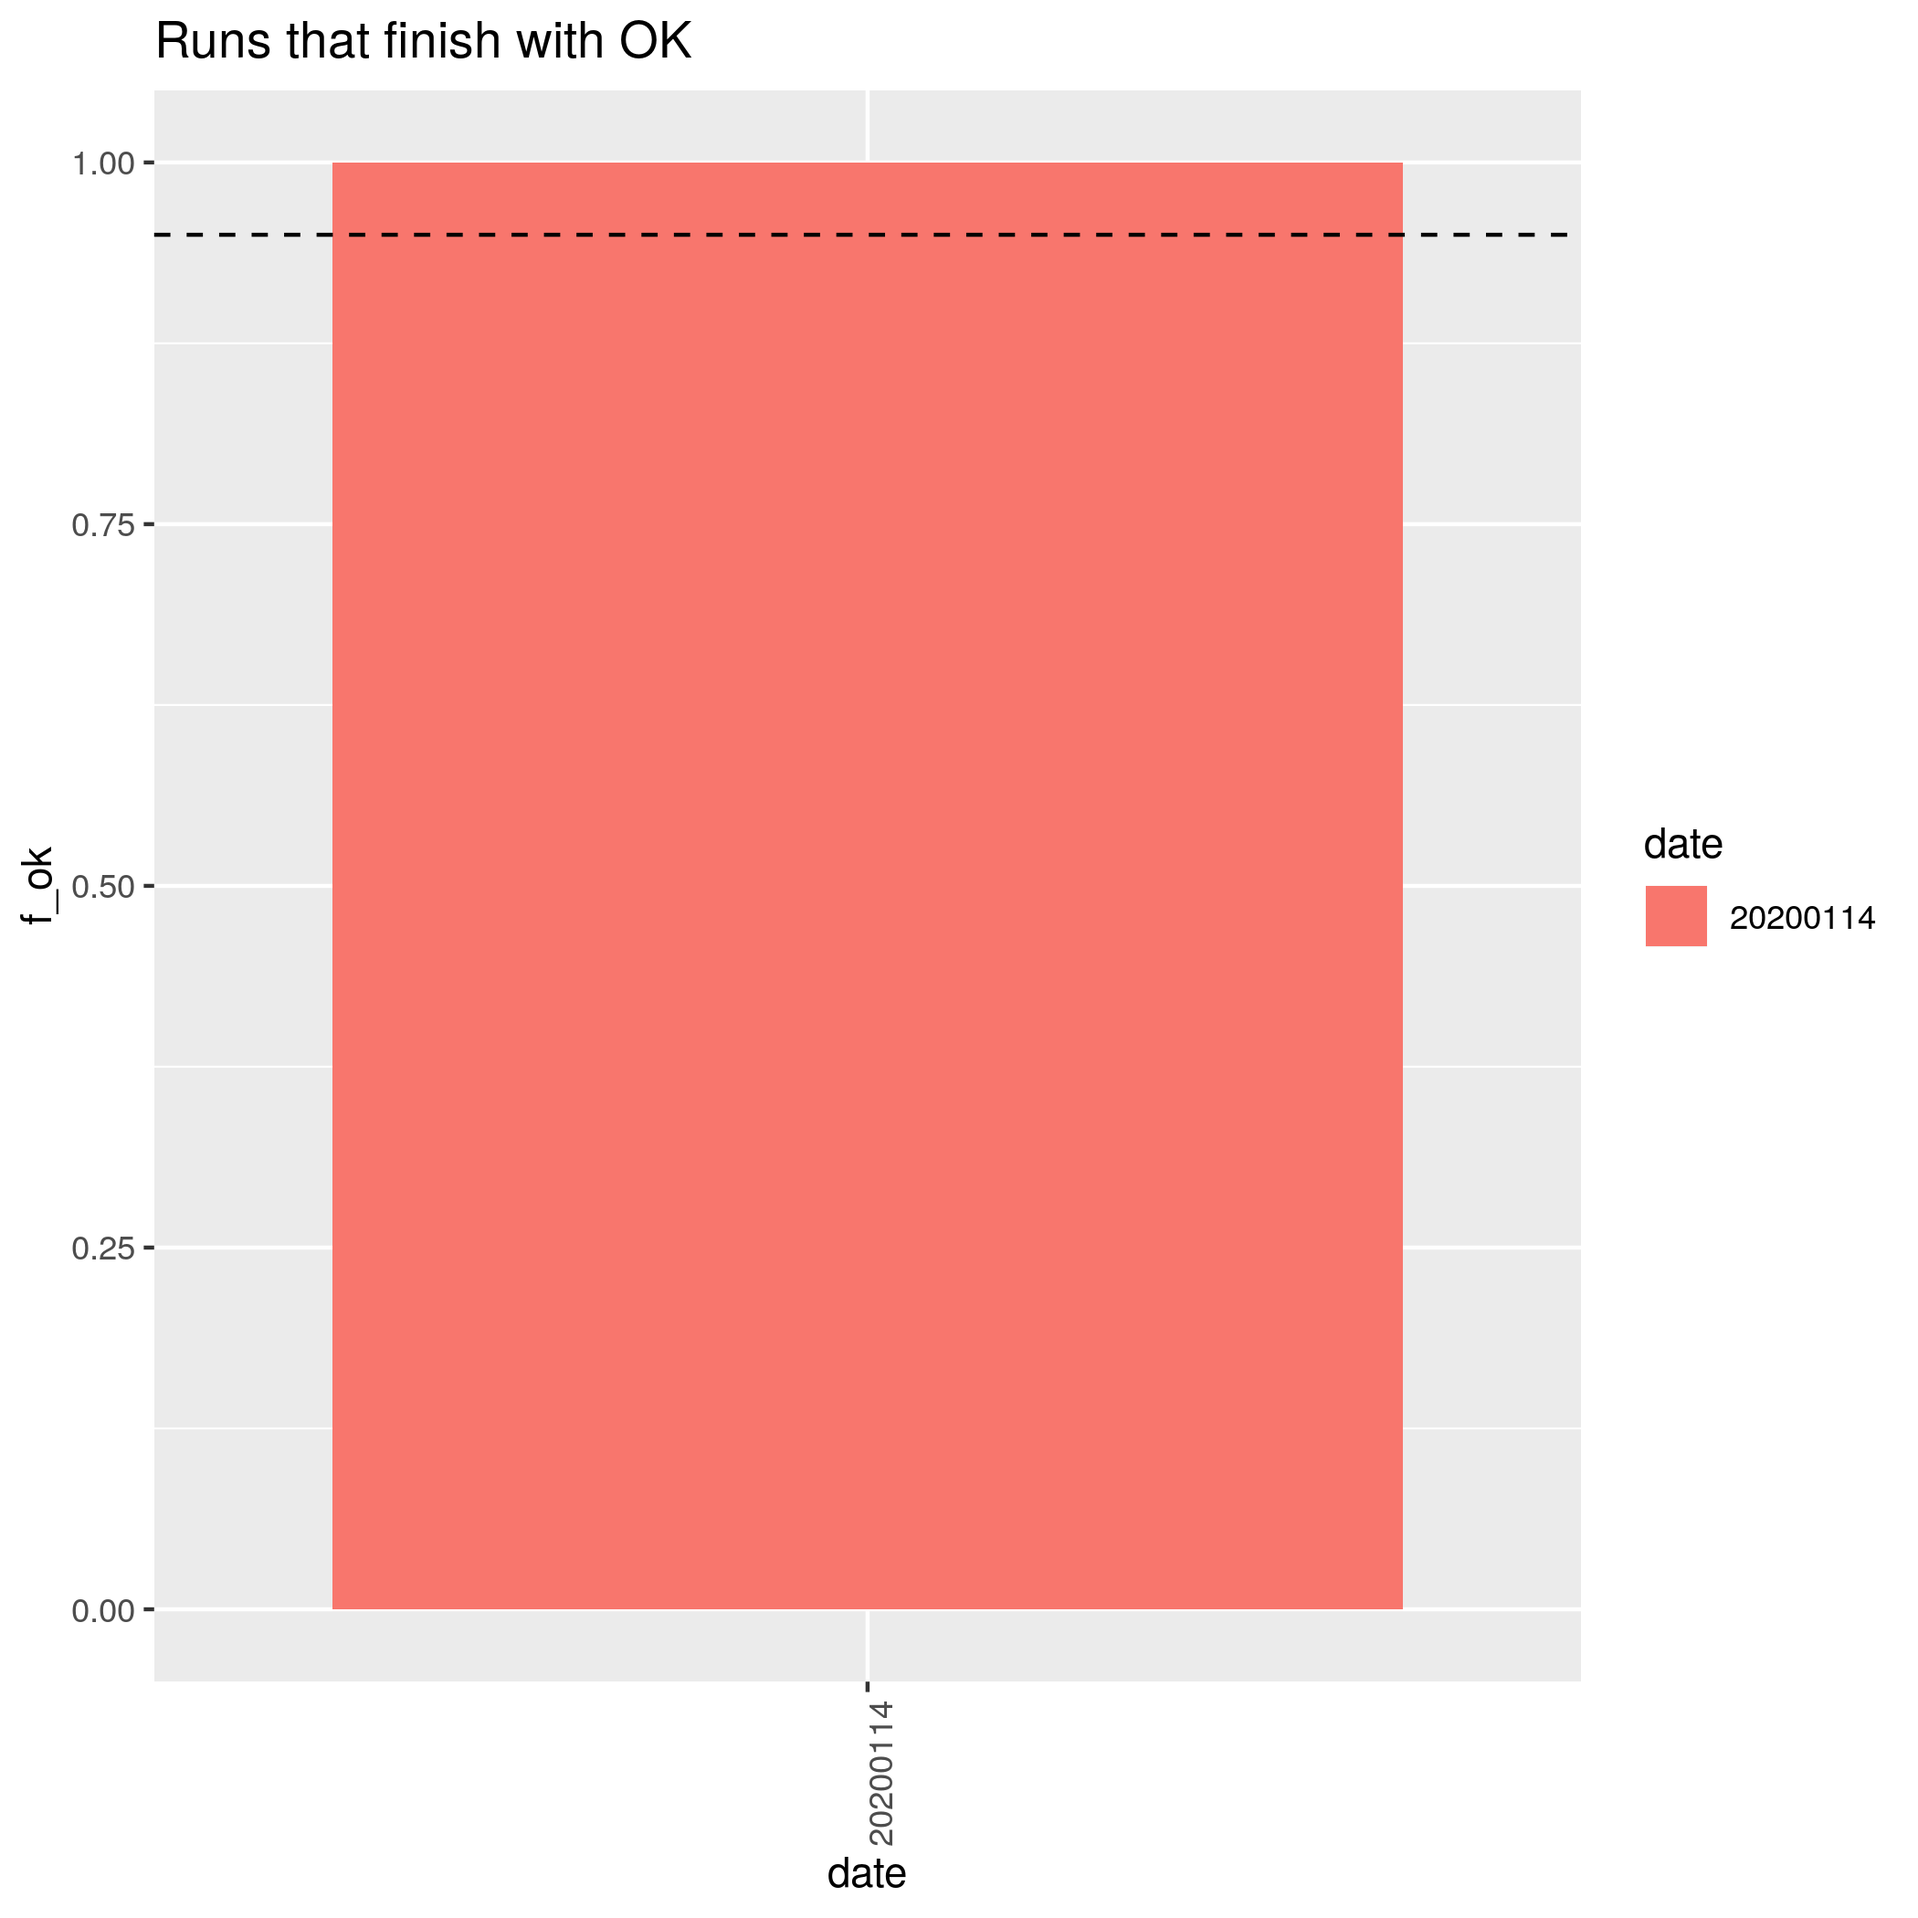
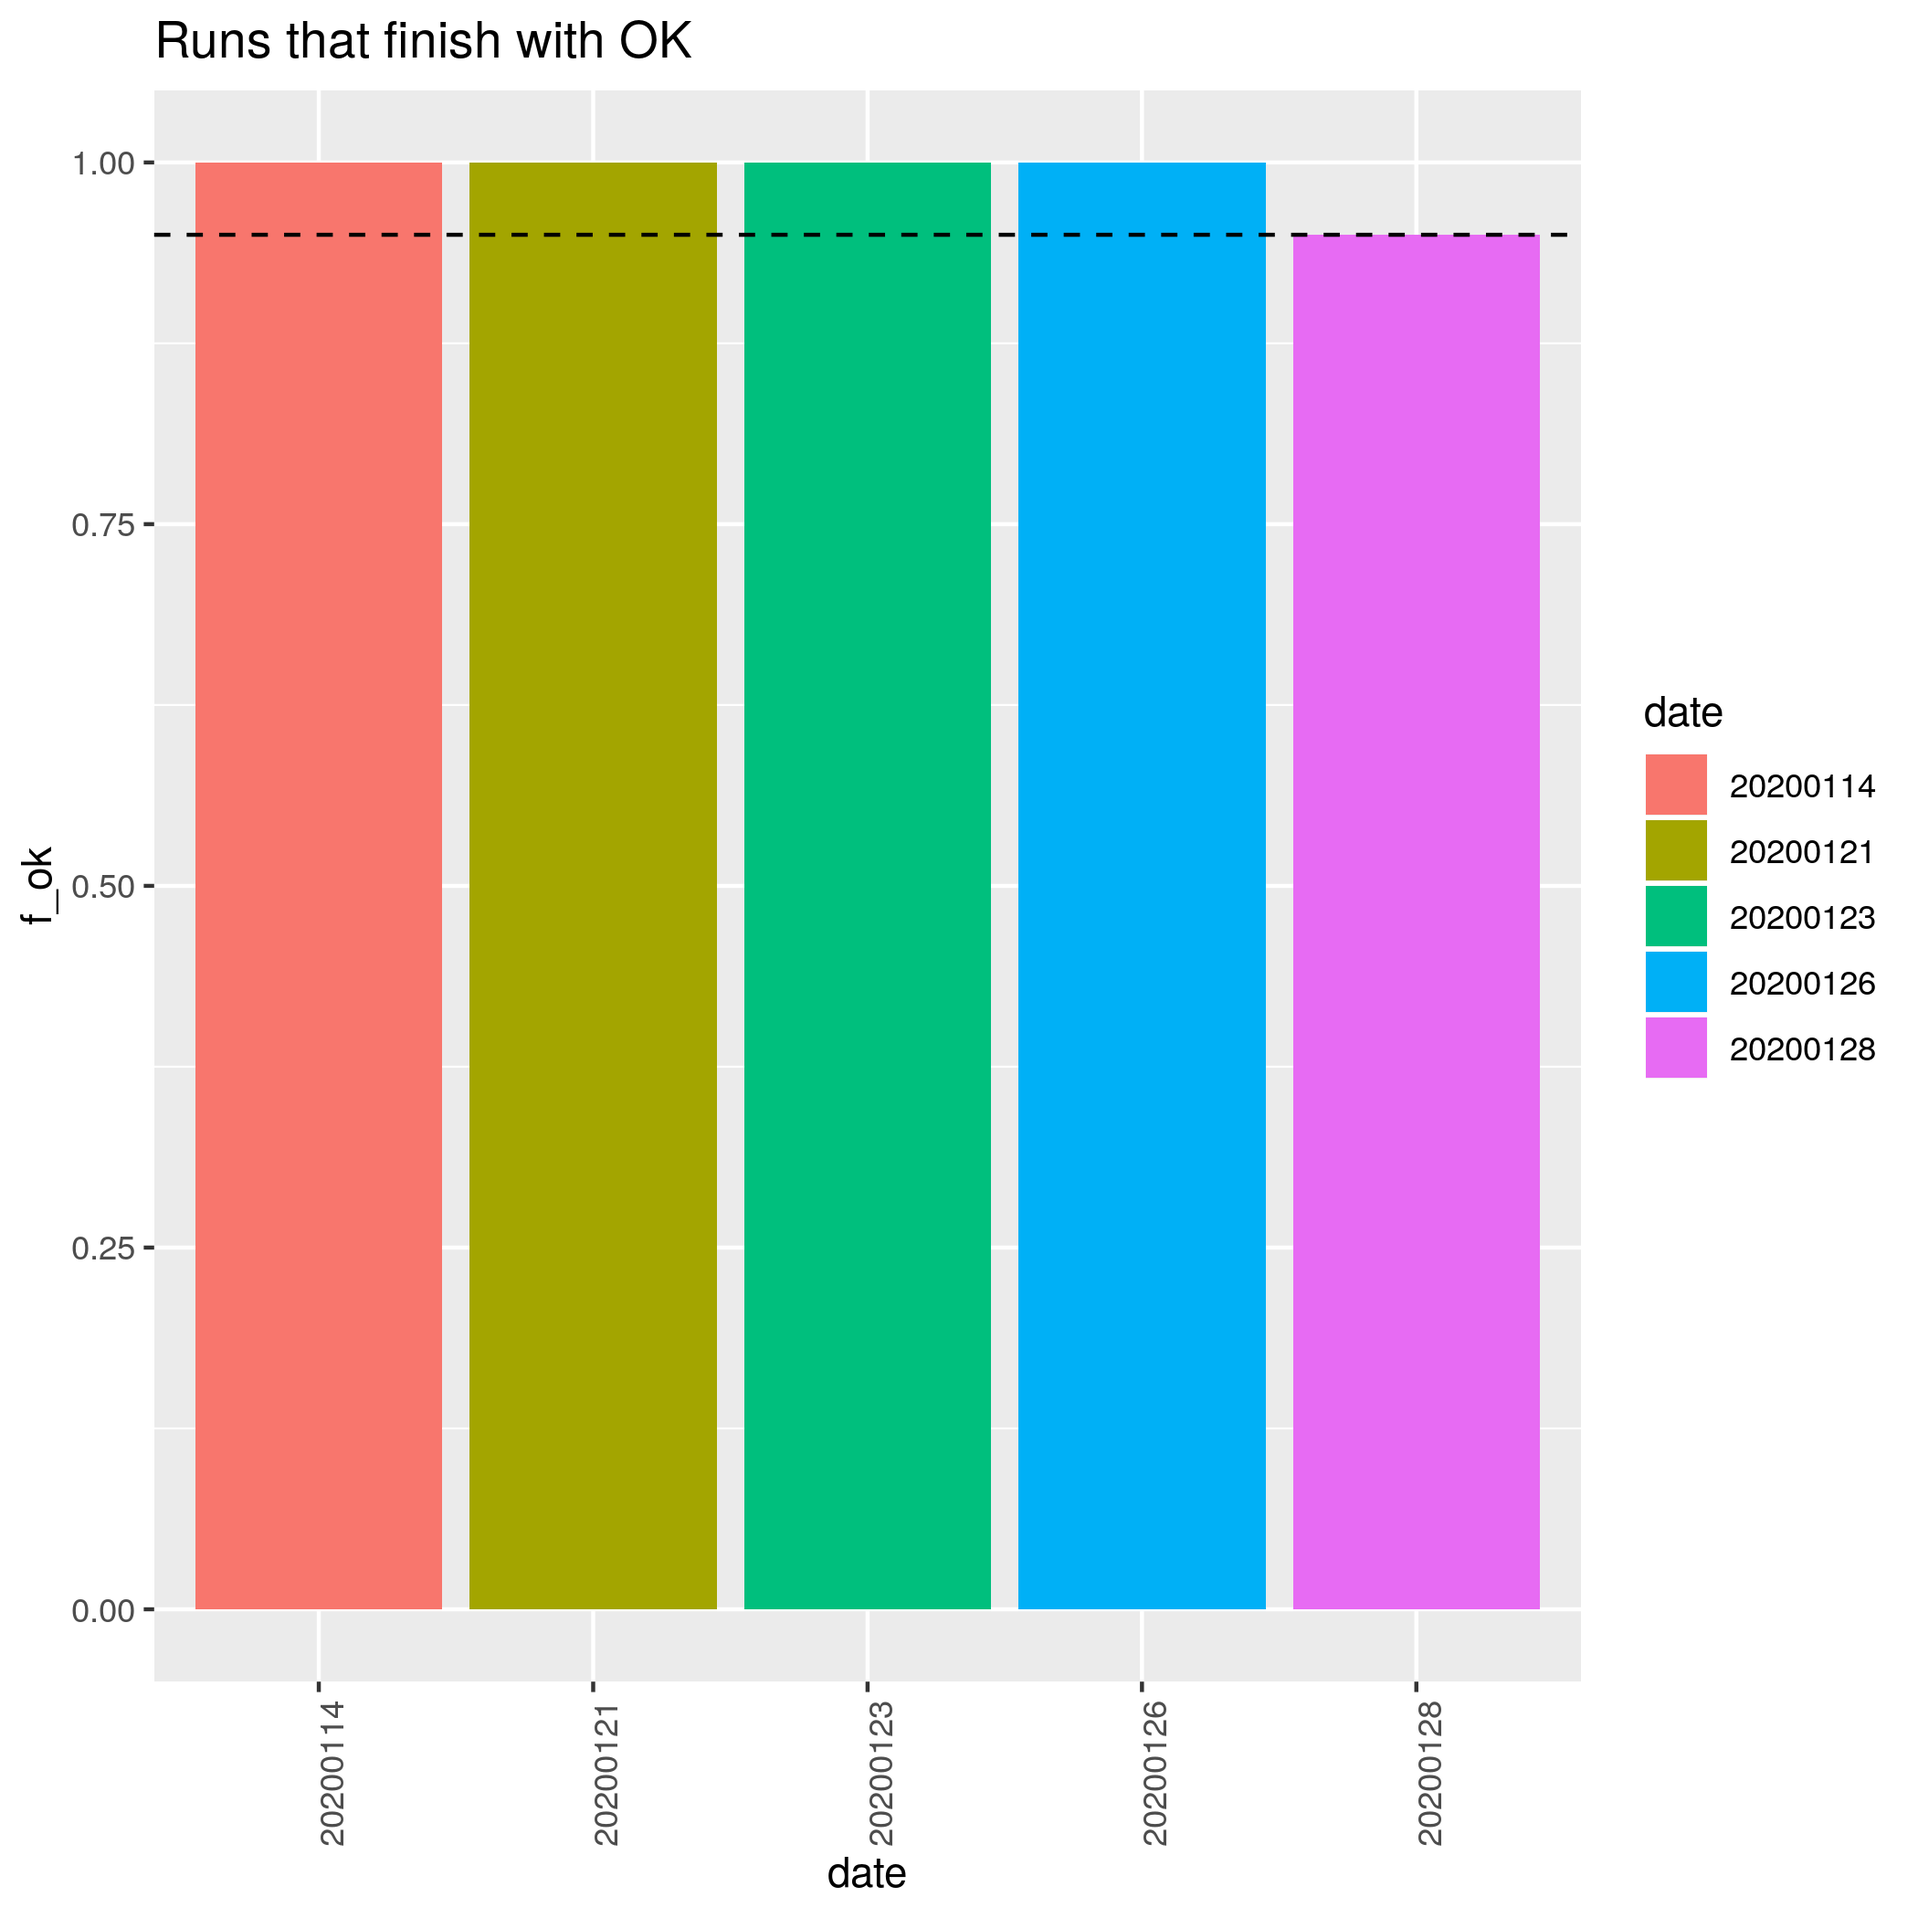
Update figures

diff --git a/overview.md b/overview.md
@@ -1,25 +1,7 @@
-|date     | mean_runtime_hours|      f_ok|    f_fail|  f_cancel| crown_age| n_candidates| mutation_rate| mcmc_chain_length| n_particles| n_replicates| mean_n_taxa| mean_ess| perc_low_ess| dna_length|nus           |
-|:--------|------------------:|---------:|---------:|---------:|---------:|------------:|-------------:|-----------------:|-----------:|------------:|-----------:|--------:|------------:|----------:|:-------------|
-|20190808 |          0.6791088| 1.0000000| 0.0000000| 0.0000000|         6|            3|     0.0833333|           1111000|           1|            2|   26.812500| 541.2969|     31.25000|       1000|1,1.5,2,2.5   |
-|20190815 |          1.6287905| 0.9375000| 0.0000000| 0.0625000|         7|            3|     0.0833333|           1111000|           1|            2|   56.750000| 463.0667|     36.66667|       1000|1,1.5,2,2.5   |
-|20190829 |          3.3101975| 0.9375000| 0.0625000| 0.0000000|         6|           40|     0.0833333|           1000000|           1|            2|   26.812500| 421.7337|     39.13043|       1000|1,1.5,2,2.5   |
-|20190903 |          4.1418981| 0.9166667| 0.0000000| 0.0833333|         6|           40|     0.0833333|           1000000|           1|            2|   26.812500| 429.4056|     37.77778|       1000|1,1.5,2,2.5   |
-|20190904 |          0.6348322| 1.0000000| 0.0000000| 0.0000000|         6|            4|     0.0833333|           1000000|           1|            2|   26.812500| 478.9740|     31.25000|       1000|1,1.5,2,2.5   |
-|20190905 |          0.6264041| 0.9875000| 0.0125000| 0.0000000|         6|            4|     0.0833333|           1000000|           1|           10|   28.333333| 502.4483|     28.90295|       1000|1,1.5,2,2.5   |
-|20190906 |          0.3879977| 1.0000000| 0.0000000| 0.0000000|         5|            4|     0.0833333|           1000000|           1|            2|   17.666667| 610.8542|     19.27083|       1000|1,1.5,2,2.5   |
-|20190908 |          0.6437963| 1.0000000| 0.0000000| 0.0000000|         6|            4|     0.0833333|           1000000|           1|            2|   26.812500| 478.9740|     31.25000|       1000|1,1.5,2,2.5   |
-|20190910 |          0.1362500| 1.0000000| 0.0000000| 0.0000000|         6|            4|     0.0833333|           1000000|           1|            2|   26.812500| 583.5312|     16.66667|        100|1,1.5,2,2.5   |
-|20190915 |         16.9249306| 0.0833333| 0.9166667| 0.0000000|         6|            4|     0.0833333|           1000000|          10|            2|   26.812500| 506.2708|     30.20833|       1000|1,1.5,2,2.5   |
-|20190918 |          1.9823404| 0.9583333| 0.0208333| 0.0208333|         7|            4|     0.0833333|           1000000|           1|            2|   56.750000| 392.3895|     43.15789|       1000|1,1.5,2,2.5   |
-|20190923 |          2.9822315| 1.0000000| 0.0000000| 0.0000000|         7|            4|     0.0833333|           1000000|          10|            2|   20.700000| 543.0250|     28.33333|       1000|0,0.5,1,1.5,2 |
-|20191006 |          0.3187825| 0.9791667| 0.0208333| 0.0000000|         7|            4|     0.0833333|           1000000|           1|            2|   29.687500| 565.6211|     24.73684|        500|0,0.5,1,2     |
-|20191007 |          1.0499155| 0.9375000| 0.0416667| 0.0208333|         7|            4|     0.0833333|           1000000|           1|            2|   29.687500| 509.5368|     33.15789|       1000|0,0.5,1,2     |
-|20191008 |          0.0516204| 1.0000000| 0.0000000| 0.0000000|         1|            4|     0.0833333|           1000000|           1|            2|    2.645833| 705.4948|     18.75000|        500|0,0.5,1,2     |
-|20191009 |          0.0585993| 0.9791667| 0.0208333| 0.0000000|         2|            4|     0.0833333|           1000000|           1|            2|    3.687500| 690.3594|     18.22917|        500|0,0.5,1,2     |
-|20191010 |          0.0721354| 1.0000000| 0.0000000| 0.0000000|         3|            4|     0.0833333|           1000000|           1|            2|    5.020833| 633.2552|     25.52083|        500|0,0.5,1,2     |
-|20191011 |          0.0993085| 0.9791667| 0.0208333| 0.0000000|         4|            4|     0.0833333|           1000000|           1|            2|    7.437500| 679.7865|     16.66667|        500|0,0.5,1,2     |
-|20191012 |          0.1290567| 1.0000000| 0.0000000| 0.0000000|         5|            4|     0.0833333|           1000000|           1|            2|   10.083333| 637.8073|     21.35417|        500|0,0.5,1,2     |
-|20191013 |          0.1303241| 1.0000000| 0.0000000| 0.0000000|         5|            4|     0.0833333|           1000000|           1|            2|   10.083333| 637.8073|     21.35417|        500|0,0.5,1,2     |
-|20191014 |          0.3317778| 1.0000000| 0.0000000| 0.0000000|         8|            4|     0.0833333|           1000000|           1|            2|   24.125000| 487.3813|     29.37500|        500|0,0.5,1,1.5   |
-|20191016 |          0.2959475| 0.9975000| 0.0025000| 0.0000000|         6|            4|     0.0833333|          10000000|           1|            2|   14.225000| 815.8000|      2.50000|       1000|0,0.5,1,1.5   |
-|20191017 |          0.3051597| 1.0000000| 0.0000000| 0.0000000|         6|            4|     0.0833333|           1000000|           1|           20|   13.697500| 577.5881|     24.68750|       1000|0,0.5,1,1.5   |
+|date     | mean_runtime_hours| f_ok| f_fail| f_cancel| crown_age| n_candidates| mcmc_chain_length| n_particles| n_replicates| mean_n_taxa| mean_ess| perc_low_ess| dna_length|nus         |
+|:--------|------------------:|----:|------:|--------:|---------:|------------:|-----------------:|-----------:|------------:|-----------:|--------:|------------:|----------:|:-----------|
+|20200114 |           1.668861| 1.00|  0.000|    0.000|         8|            4|             1e+07|           1|            2|      24.475|       NA|           NA|       1000|0,0.5,1,1.5 |
+|20200121 |           1.692174| 1.00|  0.000|    0.000|         8|            4|             1e+07|           1|            2|      24.475|       NA|           NA|       1000|0,0.5,1,1.5 |
+|20200123 |           1.559528| 1.00|  0.000|    0.000|         8|            4|             1e+07|           1|            2|      24.475| 298.6667|     63.84615|       1000|0,0.5,1,1.5 |
+|20200126 |           1.566681| 1.00|  0.000|    0.000|         8|            4|             1e+07|           1|            2|      24.475| 298.6667|     63.84615|       1000|0,0.5,1,1.5 |
+|20200128 |           4.322350| 0.95|  0.025|    0.025|        NA|           NA|                NA|          NA|           NA|          NA|       NA|           NA|         NA|NA          |

diff --git a/verdict.md b/verdict.md
@@ -1,25 +1,7 @@
 |date     |most_runs_pass |most_ess_good |
 |:--------|:--------------|:-------------|
-|20190808 |TRUE           |FALSE         |
-|20190815 |TRUE           |FALSE         |
-|20190829 |FALSE          |FALSE         |
-|20190903 |TRUE           |FALSE         |
-|20190904 |TRUE           |FALSE         |
-|20190905 |TRUE           |FALSE         |
-|20190906 |TRUE           |FALSE         |
-|20190908 |TRUE           |FALSE         |
-|20190910 |TRUE           |FALSE         |
-|20190915 |FALSE          |FALSE         |
-|20190918 |TRUE           |FALSE         |
-|20190923 |TRUE           |FALSE         |
-|20191006 |TRUE           |FALSE         |
-|20191007 |TRUE           |FALSE         |
-|20191008 |TRUE           |FALSE         |
-|20191009 |TRUE           |FALSE         |
-|20191010 |TRUE           |FALSE         |
-|20191011 |TRUE           |FALSE         |
-|20191012 |TRUE           |FALSE         |
-|20191013 |TRUE           |FALSE         |
-|20191014 |TRUE           |FALSE         |
-|20191016 |TRUE           |FALSE         |
-|20191017 |TRUE           |FALSE         |
+|20200114 |TRUE           |NA            |
+|20200121 |TRUE           |NA            |
+|20200123 |TRUE           |FALSE         |
+|20200126 |TRUE           |FALSE         |
+|20200128 |TRUE           |NA            |
